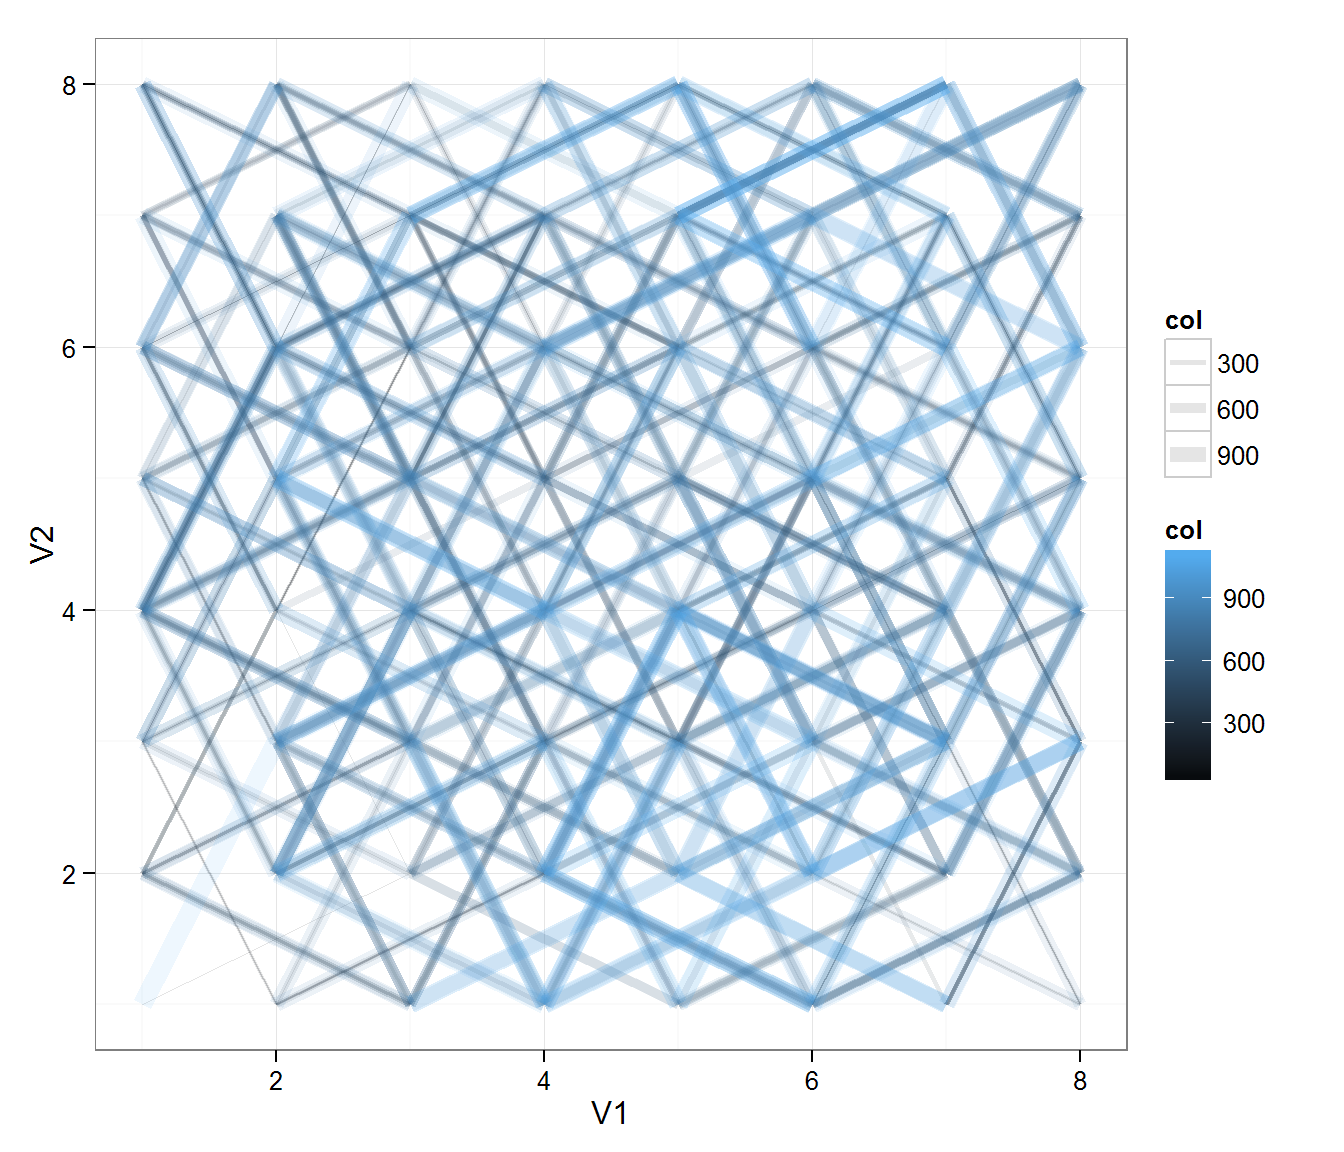
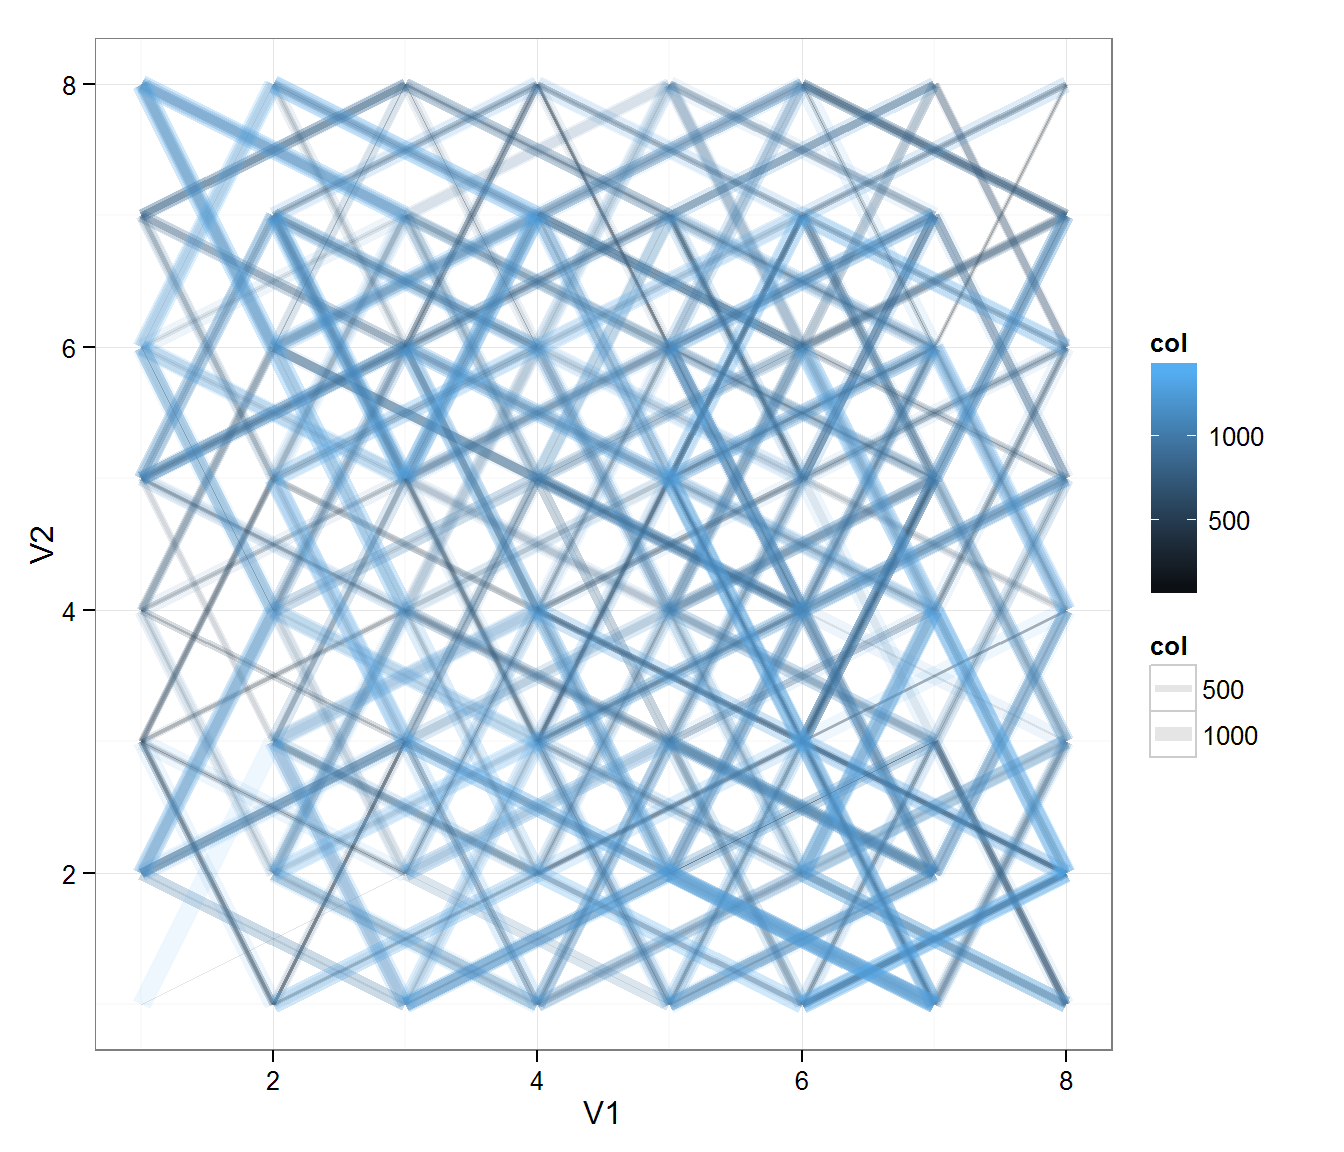
minor

diff --git a/knight_moves.html b/knight_moves.html
@@ -193,7 +193,7 @@ n.steps &lt;- function(){
 n&lt;-10000
 res&lt;-replicate(n,n.steps())
 mea &lt;- mean(res)</code></pre>
-<p>Από τα παραπάνω προκύπτει μέση τιμή ίση μέ: <strong>167.9142</strong>. <br><br></p>
+<p>Από τα παραπάνω προκύπτει μέση τιμή ίση μέ: <strong>166.2868</strong>. <br><br></p>
 </div>
 <div id="-----------" class="section level4">
 <h4>Μια από τις διαδρομές, όπου ο ίππος καθυστέρησε να επιστρέψει στην αφετηρία</h4>
@@ -208,7 +208,7 @@ p + geom_path(aes(colour = col,size = col),alpha=.1) +
   scale_colour_gradient(low=&quot;black&quot;) +
   theme_bw()</code></pre>
 <p><img src="knight_moves_files/figure-html/unnamed-chunk-2.png" title="plot of chunk unnamed-chunk-2" alt="plot of chunk unnamed-chunk-2" width="672" style="display:block; margin:auto;" /></p>
-<p>Όσο πιο θαλασσιά και παχιά η γραμμή τόσο σε μεταγενέστερο στάδιο έγινε η κίνηση. Στην περίπτωση αυτή χρειάστηκαν <strong>1135</strong> κινήσεις για να επιστρέψει ο ίππος στο τετράγωνο (1,1). Τα τετράγωνα παριστάνονται ως σημεία στο επίπεδο με συντεταγμένες από (1,1) έως (8,8) <br><br></p>
+<p>Όσο πιο θαλασσιά και παχιά η γραμμή τόσο σε μεταγενέστερο στάδιο έγινε η κίνηση. Στην περίπτωση αυτή χρειάστηκαν <strong>1425</strong> κινήσεις για να επιστρέψει ο ίππος στο τετράγωνο (1,1). Τα τετράγωνα παριστάνονται ως σημεία στο επίπεδο με συντεταγμένες από (1,1) έως (8,8) <br><br></p>
 </div>
 <div id="---------" class="section level4">
 <h4>Κατανομή του αριθμού των βημάτων που απαιτήθηκαν έως την επιστροφή</h4>
@@ -229,8 +229,6 @@ m + geom_histogram(aes(fill = ..count..)) +
 <div id="-markov-chain" class="section level4">
 <h4>Χρήση Markov chain</h4>
 <p>Ο βέλτιστος όμως τρόπος λύσης (με χρήση υπολογιστή) είναι ο υπολογισμός της <span class="math">\(P(n)\)</span>, (πιθανότητα επιστροφής μετά από <span class="math">\(n\)</span> κινήσεις), ο οποίος εκτός από ακριβής είναι και πολύ ταχύτερος από την προσομοίωση. Βέβαια δεν μπορεί να υπολογιστεί το <span class="math">\(\sum_n n \cdot P(n)\)</span>, γιατί το άθροισμα έχει άπειρους όρους. Ορίζοντας τον <span class="math">\(64 \times 64\)</span> transition probability matrix και με λίγο κώδικα, μπορεί όμως να εκτιμηθεί έως τον επιθυμητό βαθμό ακρίβειας.</p>
-<p>Η βέλτιστη λύση βέβαια είναι η ακριβής μαθηματική επίλυση, η οποία αντιμετωπίζει το πρόβλημα ως τυχαίο περίπατο σε συνεκτικό γράφο. Οι κορυφές είναι τα τετράγωνα της σκακιέρας και οι ακμές αντιπροσωπεύουν τις δυνατές μετακινήσεις. Η γενική λύση είναι <span class="math">\(2Ν/k\)</span>, όπου <span class="math">\(Ν\)</span> ο αριθμός των ακμών του γράφου και <span class="math">\(k\)</span> o αριθμός των ακμών που συνδέονται με το σημείο εκκίνησης. Στην περίπτωσή μας <span class="math">\(Ν=168\)</span> και <span class="math">\(k=2\)</span>.</p>
-<p>Για πλήρη επεξήγηση της μαθηματικής επίλυσης, δείτε το Κεφ. 3, σελ 9 εδώ: <a href="http://www.stat.berkeley.edu/~aldous/RWG/book.html">http://www.stat.berkeley.edu/~aldous/RWG/book.html</a></p>
 <pre class="r"><code># create the transition matrix
 x &lt;- c(1*8+2*1,
        1*8-2*1,
@@ -302,6 +300,8 @@ while(1){
 # }
 # sum(pr * seq(2,n))</code></pre>
 <p>Από τα παραπάνω προκύπτει η ακριβής μέση τιμή, που είναι ίση μέ: <strong>168</strong>. <br></p>
+<p>Η βέλτιστη λύση βέβαια είναι η ακριβής μαθηματική επίλυση, η οποία αντιμετωπίζει το πρόβλημα ως τυχαίο περίπατο σε συνεκτικό γράφο. Οι κορυφές είναι τα τετράγωνα της σκακιέρας και οι ακμές αντιπροσωπεύουν τις δυνατές μετακινήσεις. Η γενική λύση είναι <span class="math">\(2Ν/k\)</span>, όπου <span class="math">\(Ν\)</span> ο αριθμός των ακμών του γράφου και <span class="math">\(k\)</span> o αριθμός των ακμών που συνδέονται με το σημείο εκκίνησης. Στην περίπτωσή μας <span class="math">\(Ν=168\)</span> ( <code>length(tra.m[tra.m&gt;0])/2</code> ) και <span class="math">\(k=2\)</span>.</p>
+<p>Για πλήρη επεξήγηση της μαθηματικής επίλυσης, δείτε το Κεφ. 3, σελ 9 εδώ: <a href="http://www.stat.berkeley.edu/~aldous/RWG/book.html">http://www.stat.berkeley.edu/~aldous/RWG/book.html</a></p>
 </div>
 </div>
 <div id="-------------" class="section level3">
